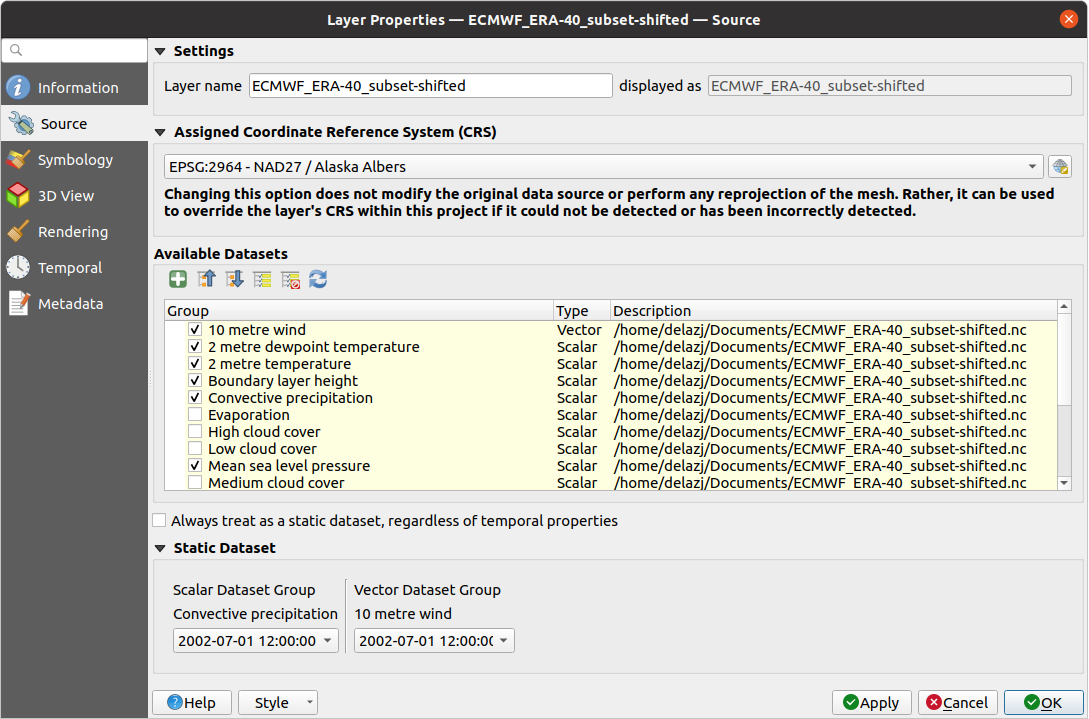
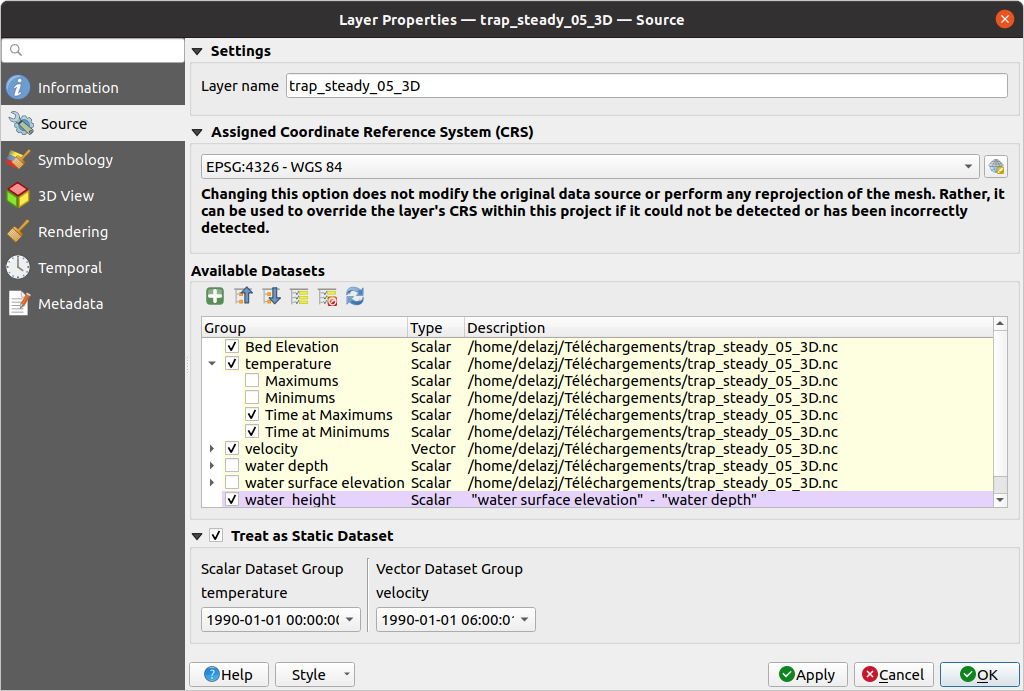
Fix description and update screenshots

diff --git a/docs/user_manual/working_with_mesh/mesh_properties.rst b/docs/user_manual/working_with_mesh/mesh_properties.rst
@@ -152,7 +152,9 @@ including:
   Use this process only if the CRS applied to the layer is wrong or
   if none was applied.
 * The :guilabel:`Available datasets` frame lists all the dataset groups (and
-  subitems) in the mesh layer, with their type and description in a tree view.
+  subgroups) in the mesh layer, with their type and description in a tree view.
+  Both regular datasets (i.e. their data is stored in the file) and virtual
+  datasets (which are :ref:`calculated on the fly <mesh_calculator>`) are listed.
 
   * Use the |add| :guilabel:`Assign extra dataset to mesh` button to add more
     groups to the current mesh layer.
@@ -163,19 +165,19 @@ including:
   * Double-click over a name and you can rename the dataset.
   * |refresh| :guilabel:`Reset to defaults`, removing additional groups
     or renames.
-* |unchecked| :guilabel:`Always treat as static dataset, regardless of temporal
-  properties`
-* :guilabel:`Static dataset`: each active dataset (as selected in |symbology|
-  :menuselection:`Symbology -->` |general| :guilabel:`Datasets` tab) can be
-  assigned a date and will render independently of QGIS time controller.
-  Select ``None`` in the combobox if you wish to keep a dynamic dataset.
+* Checking the |unchecked| :guilabel:`Treat as static dataset` group allows
+  to ignore the map temporal navigation properties while rendering the mesh
+  layer. For each active dataset group (as selected in |symbology|
+  :menuselection:`Symbology -->` |general| :guilabel:`Datasets` tab), you can:
 
-  .. I am not really sure of this because depending on the dataset I use,
-   I also find 'display dataset' in the combobox. Not sure what it means.
+  .. TODO: insert map temporal navigation reference here also
 
-.. Are the last two points not related? Isn't the last point a subitem of the previous one?
- if so, the GUI is confusing (I'd expect the subitem deactivated in some cases) and
- visualize this hierarchy (eg, via a group box).
+  * set to :guilabel:`None`: the dataset group is not displayed at all
+  * :guilabel:`Display dataset`: eg, for the "bed elevation" dataset which is
+    not time aware
+  * extract a particular date time: the dataset matching the provided time
+    is rendered and stay fixed during map navigation.
+
 
 Symbology Properties
 --------------------
@@ -328,8 +330,9 @@ Rendering
 In the tab |meshframe| :sup:`Rendering` tab, QGIS offers possibilities to
 display the grid, as shown in :numref:`figure_mesh_symbology_grid`:
 
-* ``Native Mesh Rendering`` that shows quadrants
-* ``Triangular Mesh Rendering`` that display triangles
+* ``Native Mesh Rendering`` that shows original faces and edges from the layer
+* ``Triangular Mesh Rendering`` that adds more edges and displays the faces as
+  triangles
 
 
 .. _figure_mesh_symbology_grid:
